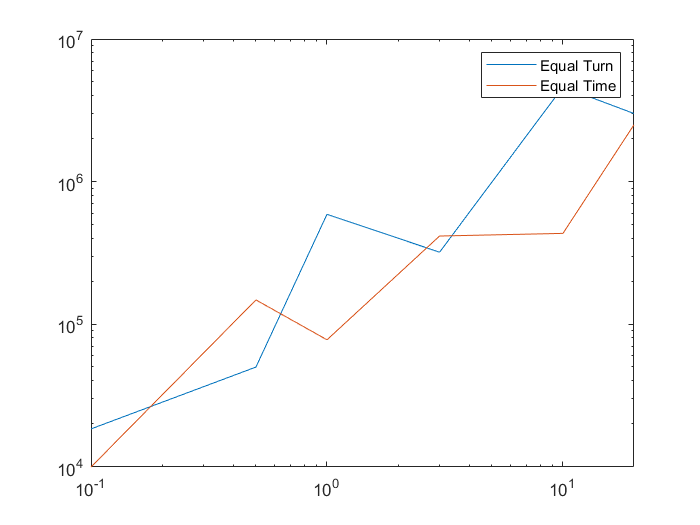
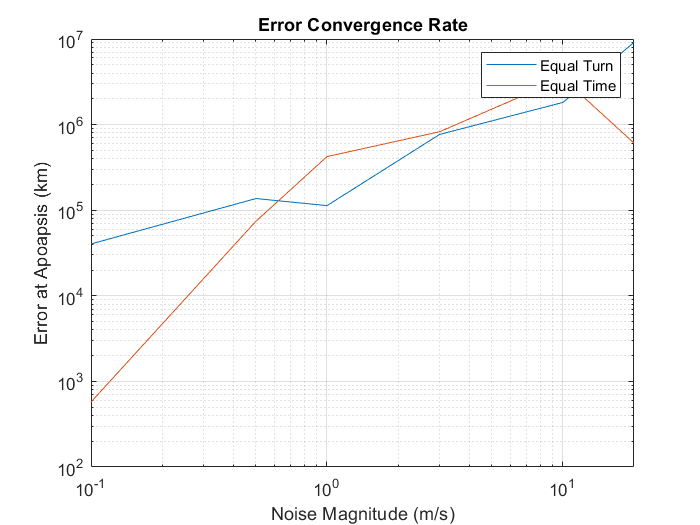
New error figures and simulation params

diff --git a/IOD3V Testing/convergence_test.m b/IOD3V Testing/convergence_test.m
@@ -154,7 +154,7 @@ ylabel('Error at Apoapsis (km)')
 
 %% Measurement Noise
 
-noise_vect = [0,0.1,0.5,1,3,10,20];
+noise_vect = [1e-5,1e-3,0.1,1,5,10,20];
 
 % ======== Equal Turn ========
 
